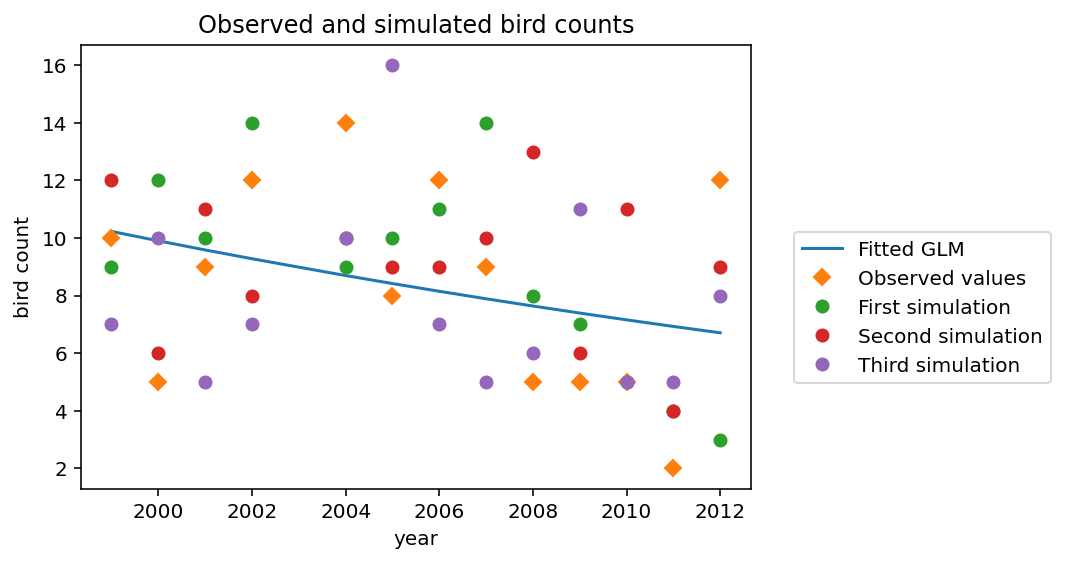
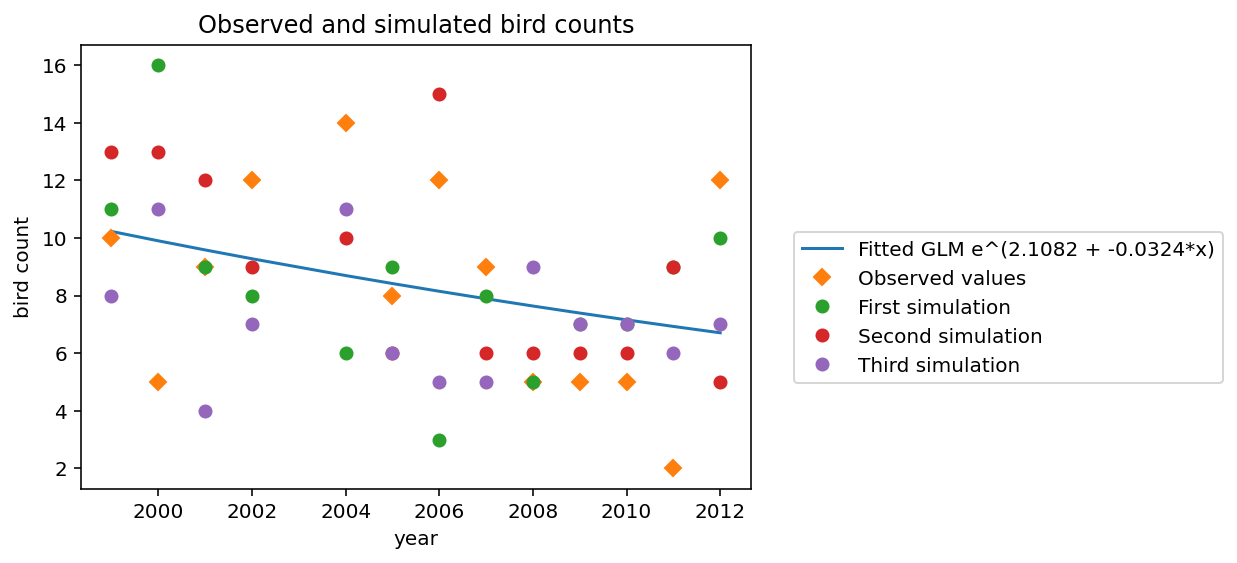
add model to plot legend

diff --git a/glm/script.py b/glm/script.py
@@ -21,11 +21,14 @@ def simulate_bird_counts(df):
     # Estimate intercept and slope using scipy minimize and likelihood function for poisson GLM
     b0, b1 = minimize(lambda beta: -log_likelihood(beta, x, y), x0=[0, 0]).x
     
+    print(f"b0: {b0}")
+    print(f"b1: {b1}")
+    
     # Link function to extract expected responsevalues, used to simulate bird counts
     lambdas = np.exp(b0 + b1*x)
     
     # Plot line for extimated GLM
-    plt.plot(df["yr"], np.exp(b0 + b1*x), label = "Fitted GLM")
+    plt.plot(df["yr"], np.exp(b0 + b1*x), label = f"Fitted GLM e^({b0:.4f} + {b1:.4f}*x)")
     
     # Generate poisson distributed bird counts 3 times
     result = []
